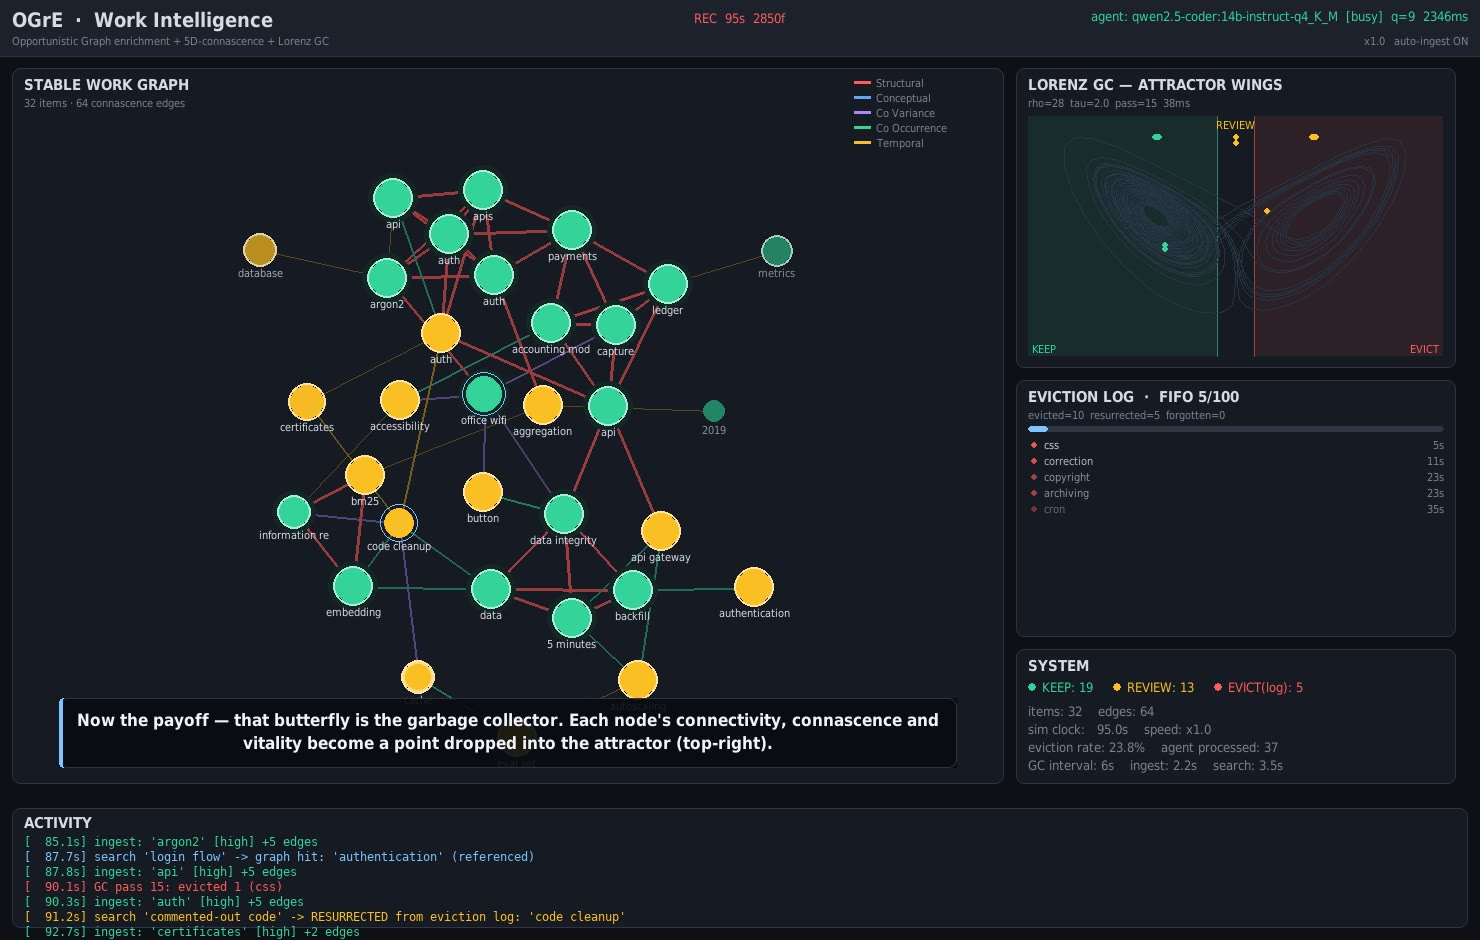
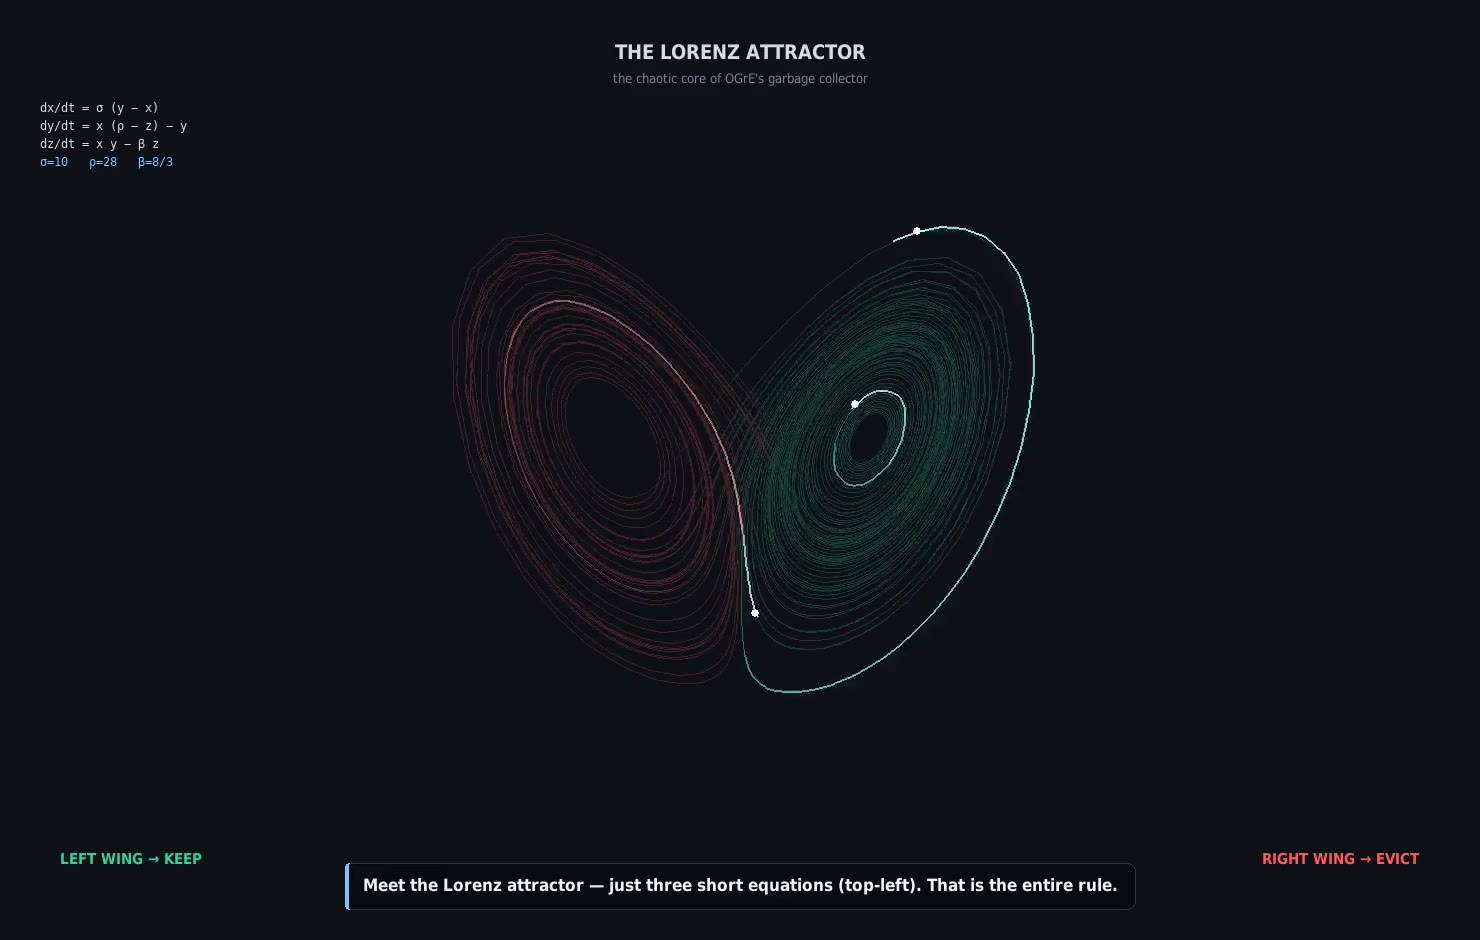
Add Feynman Lens reflection page + refresh OGrE demo narration
Add a standalone, themed "The Feynman Lens" reflection on OGrE's
5D-connascence graph mechanics, linked from the OGrE card, and publish it
via deploy.sh. Refresh the embedded demo video with female-voiced narration.

diff --git a/reflection-feynman.html b/reflection-feynman.html
@@ -1,0 +1,169 @@
+<!DOCTYPE html>
+<html lang="en">
+<head>
+<meta charset="utf-8" />
+<meta name="viewport" content="width=device-width, initial-scale=1" />
+<title>The Feynman Lens — OGrE · Dylan McCapes</title>
+<meta name="description" content="A reflection on the OGrE 5D-connascence graph mechanics, read against the values and methods of Richard Feynman." />
+<style>
+  :root{
+    --bg:#0b0e14;--bg-soft:#0f1320;--panel:#131a2a;--panel-2:#172132;
+    --border:#243048;--text:#e7ecf5;--muted:#9aa7bd;--accent:#5eead4;--accent-2:#7c9cff;
+    --shadow:0 10px 30px rgba(0,0,0,.35);--radius:16px;
+  }
+  *{box-sizing:border-box}
+  html{scroll-behavior:smooth}
+  body{
+    margin:0;
+    background:
+      radial-gradient(1200px 600px at 80% -10%, rgba(124,156,255,.12), transparent 60%),
+      radial-gradient(900px 500px at -10% 10%, rgba(94,234,212,.10), transparent 55%),
+      var(--bg);
+    color:var(--text);
+    font-family:ui-sans-serif,system-ui,-apple-system,"Segoe UI",Roboto,Helvetica,Arial,sans-serif;
+    line-height:1.7;-webkit-font-smoothing:antialiased;
+  }
+  .wrap{max-width:760px;margin:0 auto;padding:40px 22px 96px}
+  .back{
+    display:inline-flex;align-items:center;gap:8px;text-decoration:none;color:var(--accent-2);
+    font-size:.9rem;font-weight:600;margin-bottom:26px
+  }
+  .back:hover{text-decoration:underline}
+  .back svg{width:16px;height:16px}
+  .eyebrow{
+    font-family:ui-monospace,SFMono-Regular,Menlo,Consolas,monospace;
+    color:var(--accent);font-size:.78rem;letter-spacing:.16em;text-transform:uppercase;margin:0 0 12px
+  }
+  h1{font-size:clamp(1.9rem,4.6vw,2.7rem);line-height:1.08;margin:0 0 14px;letter-spacing:-.02em;font-weight:800}
+  .dek{color:var(--muted);font-size:1.05rem;margin:0 0 10px;max-width:62ch}
+  .meta{color:var(--muted);font-size:.82rem;font-style:italic;margin:0 0 8px}
+  .rule{height:1px;background:var(--border);border:0;margin:30px 0}
+  article h2{
+    font-size:1.28rem;margin:42px 0 12px;letter-spacing:-.01em;
+    padding-top:6px
+  }
+  article h2 .num{color:var(--accent);font-family:ui-monospace,SFMono-Regular,Menlo,Consolas,monospace;font-size:.9rem;margin-right:8px}
+  article p{margin:0 0 16px;color:#cdd6e6}
+  article strong{color:var(--text);font-weight:600}
+  article em{color:var(--text)}
+  blockquote{
+    margin:20px 0;padding:14px 20px;border-left:3px solid var(--accent);
+    background:linear-gradient(90deg,rgba(94,234,212,.08),transparent);
+    border-radius:0 10px 10px 0;color:var(--text);font-size:1.02rem
+  }
+  blockquote cite{display:block;margin-top:8px;color:var(--muted);font-size:.84rem;font-style:normal}
+  pre{
+    background:#0a0d15;border:1px solid var(--border);border-radius:12px;
+    padding:16px 18px;overflow-x:auto;margin:0 0 18px;box-shadow:var(--shadow)
+  }
+  pre code{
+    font-family:ui-monospace,SFMono-Regular,Menlo,Consolas,monospace;font-size:.92rem;
+    color:#bfe9e0;line-height:1.6;white-space:pre
+  }
+  code.inl{
+    font-family:ui-monospace,SFMono-Regular,Menlo,Consolas,monospace;font-size:.86em;
+    background:var(--panel-2);border:1px solid var(--border);border-radius:6px;padding:1px 6px;color:#bfe9e0
+  }
+  article ul,article ol{margin:0 0 18px;padding-left:22px;color:#cdd6e6}
+  article li{margin:0 0 10px}
+  article li strong{color:var(--text)}
+  .coda{color:var(--muted);font-style:italic;font-size:.92rem;margin-top:8px}
+  footer{margin-top:60px;padding-top:22px;border-top:1px solid var(--border);color:var(--muted);font-size:.86rem;display:flex;justify-content:space-between;flex-wrap:wrap;gap:10px}
+  footer a{color:var(--accent-2);text-decoration:none}
+  footer a:hover{text-decoration:underline}
+  .mono{font-family:ui-monospace,SFMono-Regular,Menlo,Consolas,monospace}
+  @media (max-width:520px){.wrap{padding:28px 16px 72px}}
+</style>
+</head>
+<body>
+<div class="wrap">
+
+  <a class="back" href="index.html">
+    <svg viewBox="0 0 24 24" fill="none" stroke="currentColor" stroke-width="2"><path d="m15 18-6-6 6-6"/></svg>
+    Back to projects
+  </a>
+
+  <p class="eyebrow">Reflection · OGrE</p>
+  <h1>The Feynman Lens</h1>
+  <p class="dek">5D-connascence graph mechanics, read against the values and methods of Richard Feynman — and the question: would he have liked the material?</p>
+  <p class="meta">A reflection on the OGrE work-intelligence system.</p>
+
+  <hr class="rule" />
+
+  <article>
+
+    <h2>A note on scope and honesty</h2>
+    <p>Before anything else, the Feynman move: <strong>don't fool yourself, and don't let the reader be fooled either.</strong></p>
+    <p>This reflection is written from a deliberately bounded vantage point — it assesses <em>one artifact</em>: OGrE, a runnable system in which work items are ingested by a local model, wired together by five-dimensional connascence edges, kept alive by a decay-and-propagation field, and garbage-collected by a Lorenz attractor. It is not a verdict on a body of academic work it cannot see. It is a reading of the thing in front of it, against the values Feynman actually practiced.</p>
+    <p>That limitation is the right place to start — because the first thing Feynman taught was about the limits of one's own knowledge:</p>
+    <blockquote>"The first principle is that you must not fool yourself — and you are the easiest person to fool."<cite>— Cargo Cult Science, Caltech commencement, 1974</cite></blockquote>
+    <p>So what follows is partly admiration and partly cross-examination. Feynman showed respect to ideas by attacking them. Treating this work as worth attacking is the compliment.</p>
+
+    <h2><span class="num">1</span>"What I cannot create, I do not understand"</h2>
+    <p>When Feynman died in 1988, that sentence was on his blackboard. It is, almost exactly, the design philosophy of OGrE.</p>
+    <p>OGrE does not <em>claim</em> that a memory system could decide what to keep by the geometry of a chaotic attractor. It <strong>builds the thing and runs it</strong> — ingestion, enrichment, decay, classification, eviction, forgetting, resurrection — and then makes it <em>render itself</em>, so the claim can be inspected frame by frame.</p>
+    <p>This is the Feynman instinct in its purest form. He distrusted understanding that couldn't be cashed out into a working mechanism. The path-integral formulation of quantum mechanics was, in part, Feynman insisting on a version of the theory he could <em>compute with</em> and <em>picture</em>. A simulation that survives contact with its own execution is a stronger epistemic object than a clean diagram that never had to run.</p>
+    <p>The smoke test — the deterministic, network-free harness that drives the whole lifecycle and <em>asserts</em> the eviction log caps, the FIFO forgets, and referenced evictions resurrect — is the same value applied to engineering: you don't get to believe the mechanism works until something independent confirms it does.</p>
+
+    <h2><span class="num">2</span>Simple rules, rich behavior — the aesthetic of mechanism</h2>
+    <p>Feynman opened the <em>Lectures on Physics</em> by asking what single sentence he would preserve if all scientific knowledge were lost. His answer was the atomic hypothesis — the idea that a whole world of complexity unfolds from one short rule. What he was really celebrating is <strong>compression</strong>: a tiny generator producing endless structure.</p>
+    <p>OGrE's intro scene is built on exactly this delight. Three lines —</p>
+    <pre><code>dx/dt = σ(y − x)
+dy/dt = x(ρ − z) − y
+dz/dt = xy − βz</code></pre>
+    <p>— and out of them falls the entire butterfly, never repeating, never escaping. The narration leans on this ("just three short equations… that is the entire rule") because it <em>is</em> the most Feynman-resonant moment in the whole piece. He loved the principle of least action for the same reason: that the sprawling, case-by-case Newtonian bookkeeping collapses into one variational statement. He told the story of being ambushed in high-school physics by Mr. Bader with the least-action principle and never getting over how <em>little</em> you needed to say to capture so much.</p>
+    <p>"Let chaos decide what to remember" is a slogan, but underneath it is a real aesthetic claim Feynman would have recognized: that the right <em>generator</em> is worth more than a thousand hand-tuned rules. Whether OGrE has actually found the right generator is Section 5's problem. But the <em>taste</em> is correct.</p>
+
+    <h2><span class="num">3</span>The strongest connection: the physics of computation</h2>
+    <p>Here is the part that is not a stretch — it is almost literal lineage.</p>
+    <p>In the early 1980s at Caltech, Feynman co-taught a course called <strong>"The Physics of Computation"</strong> with <strong>John Hopfield</strong> and <strong>Carver Mead</strong>. Out of that intellectual neighborhood came two ideas that OGrE is standing directly on top of:</p>
+    <ol>
+      <li><strong>Hopfield's attractor networks (1982):</strong> memory as the <em>stable attractors</em> of a dynamical system. You don't store a memory in a slot; you store it as a basin the system relaxes into. OGrE's decay-and-propagation field is exactly this gesture — densely re-referenced clusters reinforce one another and saturate into stable attracting states that resist decay. That <em>is</em> attractor memory, rediscovered in a knowledge-graph idiom — the central metaphor of the Hopfield program that grew up in Feynman's own corridor.</li>
+      <li><strong>Feynman's "Simulating Physics with Computers" (1982):</strong> the idea that you should let a <em>physical system itself</em> do the computing, because nature is the best simulator of nature. OGrE inverts this charmingly: instead of using computers to simulate physics, it uses a <em>physics</em> — the Lorenz system — as the <strong>computer that makes a governance decision</strong>. A node's connectivity, connascence, and vitality become an initial condition; the attractor integrates it; the wing it lands in <em>is</em> the verdict. A dynamical system pressed into service as a classifier — exactly the sort of thing Feynman found fun.</li>
+    </ol>
+    <p>If you want a one-line provenance for OGrE that would make Feynman lean in: <em>"It's a Hopfield-style attractor memory whose garbage collector is a physical oracle."</em> That sentence is doing honest work, not marketing.</p>
+
+    <h2><span class="num">4</span>Visualization as a way of thinking, not decorating</h2>
+    <p>Feynman diagrams were not illustrations of a calculation done some other way — they <em>were</em> the calculation. The picture was the bookkeeping. Feynman thought <em>through</em> drawings; he reasoned about wobbling plates and spinning disks because the visual was where the physics lived for him.</p>
+    <p>OGrE takes the same stance toward an abstract systems idea. "Temporal decay with edge propagation forming stable attractors, classified by attractor-wing residence" means nothing until you <em>watch</em> a green cluster hold itself together while an isolated red node starves and falls into the eviction log — and then watch a search pull it back. The view, the connascence edge-coloring, the live butterfly: these are the argument made legible. That is squarely Feynman's theory of explanation — if you can't show it, you probably can't claim it.</p>
+    <p>The choice to <em>narrate</em>, to teach while it runs, is of a piece with the man who would rather give a great lecture to undergraduates than almost anything. He believed that if you couldn't explain something to a freshman, you didn't really understand it. OGrE was built to be explained.</p>
+
+    <h2><span class="num">5</span>Where Feynman would push back</h2>
+    <p>This is the section that makes the reflection worth keeping. Feynman's admiration always came with a scalpel, and an honest tribute uses it.</p>
+    <ul>
+      <li><strong>"Which attractor do you mean?"</strong> OGrE uses the word <em>attractor</em> in two distinct senses: (a) the <strong>decay/propagation network's</strong> own emergent stable states — the clusters that self-reinforce — and (b) the <strong>Lorenz system</strong> used as an external classifier. These are not the same dynamical object, and the prose sometimes lets them blur. He'd demand you separate the <em>memory dynamics</em> from the <em>oracle dynamics</em> cleanly, and say precisely how the first feeds the second.</li>
+      <li><strong>"Is the Lorenz mapping a theorem or a costume?"</strong> Mapping (connectivity, connascence, vitality) → (x₀, y₀, z₀) and reading the settled trajectory is <em>evocative</em>, but is it <em>load-bearing</em>? Would a plain threshold on vitality-times-degree classify nodes the same way 95% of the time, with the butterfly adding poetry but no discriminative power? "You must not fool yourself" says: run the ablation. Replace the Lorenz oracle with a trivial scorer and measure whether the chaotic machinery earns its keep. If it does, you have something real. If it doesn't, you have a beautiful demo — and you should <em>say so</em>, which is also fine, but you should know which one you have.</li>
+      <li><strong>"Sensitive dependence cuts both ways."</strong> The romance of chaos is sensitivity to initial conditions. But a <em>classifier</em> usually wants the opposite: stability, so a tiny change in a node's degree doesn't flip KEEP↔EVICT arbitrarily. The REVIEW band and wing-residence gate are partial answers, but he'd ask for the actual sensitivity analysis: how robust is a node's fate to ε-noise in its inputs? Measuring it is the difference between physics and vibes.</li>
+    </ul>
+    <p>None of these are dismissals. They are the questions you ask of work you take seriously. That they're <em>askable</em> — that OGrE is concrete enough to be ablated, perturbed, and falsified — is itself the Feynman seal of approval. Vague ideas can't be attacked. This one can.</p>
+
+    <h2><span class="num">6</span>So — would he have liked it?</h2>
+    <p>The honest answer is: <strong>he would have liked it the way he liked things — by playing with it and then trying to break it.</strong></p>
+    <p>He would have enjoyed the <em>spirit</em> immediately: the build-to-understand ethos, the compression of a memory policy into a generator, the insistence on showing the mechanism, the willingness to let a chaotic system make a decision just to see what happens. The wobbling-plate Feynman — the one who followed a "useless" piece of cafeteria play all the way to a Nobel Prize — would have recognized a kindred motion in someone who put a Lorenz butterfly in charge of a to-do list and meant it.</p>
+    <p>And then he would have grabbed the chalk and said, <em>"Okay, but show me it's not just numerology,"</em> and that conversation — not the praise — is what you'd actually want from him. The praise is cheap; the cross-examination is the gift. This is something concrete enough to deserve the hard version of his attention. That is rarer than it sounds.</p>
+
+    <hr class="rule" />
+
+    <h2>Coda: a to-do worth keeping in the graph</h2>
+    <p>If this reflection were a node, it should be load-bearing — escalated to REVIEW, never auto-evicted — because it points at the experiments that turn taste into result:</p>
+    <ol>
+      <li><strong>Ablate the oracle.</strong> Lorenz-GC vs. a trivial scorer. Measure agreement and the cases where they diverge. Find out if chaos earns its keep.</li>
+      <li><strong>Separate the two attractors</strong> in both the code and the prose. Name them.</li>
+      <li><strong>Perturbation study.</strong> ε-noise on node inputs → distribution of fate-flips. Report the stability, honestly.</li>
+      <li><strong>State the claim at the right strength.</strong> "A working, inspectable model of attractor-governed memory" is already real and defensible. Don't let the romance inflate it, and don't let the rigor-gaps deflate it.</li>
+    </ol>
+    <blockquote>"What I cannot create, I do not understand."<cite>— R. P. Feynman, on his blackboard, 1988</cite></blockquote>
+    <p>You created it. Now do the part he'd respect most: try to prove yourself wrong, and tell everyone exactly what you find.</p>
+
+    <p class="coda">Written with admiration and the deliberate, affectionate skepticism the man himself would have insisted on. Assessment limited to the OGrE artifact; the academic work behind it remains an unread and promising citation.</p>
+
+  </article>
+
+  <footer>
+    <span>© 2026 Dylan McCapes · <span class="mono">dylanmccapes.systems</span></span>
+    <span><a href="https://github.com/dmccapes4/ogre-work-intelligence" target="_blank" rel="noopener">OGrE on GitHub</a> · <a href="index.html">Projects</a></span>
+  </footer>
+
+</div>
+</body>
+</html>

diff --git a/index.html b/index.html
@@ -305,7 +305,11 @@
           <span class="tag">Python</span><span class="tag">PyGame</span><span class="tag">Ollama (local LLM)</span><span class="tag">Lorenz-attractor GC</span><span class="tag">Knowledge Graph</span><span class="tag">provenance-engine</span>
         </div>
         <div class="links">
-          <a class="btn primary" href="https://github.com/dmccapes4/ogre-work-intelligence" target="_blank" rel="noopener">
+          <a class="btn primary" href="reflection-feynman.html">
+            <svg viewBox="0 0 24 24" fill="none" stroke="currentColor" stroke-width="2"><path d="M12 3v2M12 19v2M5 12H3M21 12h-2M6.3 6.3 4.9 4.9M19.1 19.1l-1.4-1.4M17.7 6.3l1.4-1.4M4.9 19.1l1.4-1.4"/><circle cx="12" cy="12" r="4"/></svg>
+            The Feynman Lens
+          </a>
+          <a class="btn" href="https://github.com/dmccapes4/ogre-work-intelligence" target="_blank" rel="noopener">
             <svg viewBox="0 0 24 24" fill="currentColor"><path d="M12 2C6.48 2 2 6.58 2 12.26c0 4.5 2.87 8.32 6.84 9.67.5.1.68-.22.68-.49 0-.24-.01-.87-.01-1.71-2.78.62-3.37-1.2-3.37-1.2-.46-1.18-1.11-1.5-1.11-1.5-.91-.64.07-.62.07-.62 1 .07 1.53 1.06 1.53 1.06.89 1.56 2.34 1.11 2.91.85.09-.66.35-1.11.63-1.36-2.22-.26-4.55-1.14-4.55-5.07 0-1.12.39-2.03 1.03-2.75-.1-.26-.45-1.3.1-2.7 0 0 .84-.27 2.75 1.05a9.36 9.36 0 0 1 5 0c1.91-1.32 2.75-1.05 2.75-1.05.55 1.4.2 2.44.1 2.7.64.72 1.03 1.63 1.03 2.75 0 3.94-2.34 4.81-4.57 5.06.36.32.68.94.68 1.9 0 1.37-.01 2.47-.01 2.81 0 .27.18.6.69.49A10.02 10.02 0 0 0 22 12.26C22 6.58 17.52 2 12 2Z"/></svg>
             View on GitHub
           </a>